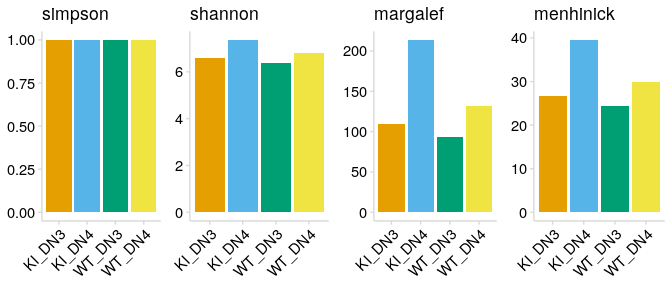
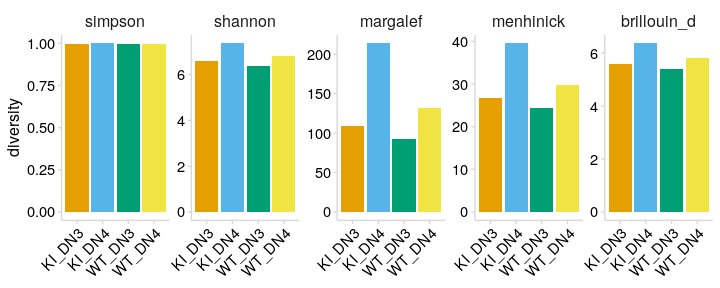
allow calc_diversity to take list of methods

diff --git a/README.md b/README.md
@@ -300,38 +300,28 @@ so_tcr <- calc_diversity(
 <br>
 
 The `plot_diversity` function will create plots summarizing repertoire
-diversity for each sample. Four different diversity metrics are plotted
-below.
+diversity for each sample. A named list of functions to run can also be
+passed to plot multiple metrics. Four different diversity metrics are
+shown in the example below.
 
 ``` r
-bar_theme <- theme(
-  axis.title  = element_blank(),
-  axis.text.x = element_text(angle = 45, hjust = 1)
+# Metrics to plot
+fns <- list(
+  "simpson"     = abdiv::simpson,
+  "shannon"     = abdiv::shannon,
+  "margalef"    = abdiv::margalef,
+  "menhinick"   = abdiv::menhinick,
+  "brillouin_d" = abdiv::brillouin_d
 )
 
-# Metrics to use
-metrics <- list(
-  "simpson"   = abdiv::simpson,
-  "shannon"   = abdiv::shannon,
-  "margalef"  = abdiv::margalef,
-  "menhinick" = abdiv::menhinick
-)
-
-# Plot diversity metrics
-ggs <- metrics %>%
-  imap(~ {
-    plot_diversity(
-      sobj_in       = so_tcr,        # Seurat object
-      clonotype_col = "cdr3",        # meta.data column containing clonotype ids
-      cluster_col   = "orig.ident",  # meta.data column containing cell labels
-      method        = .x,            # abdiv method to use
-      plot_colors   = ito_cols
-    ) +
-      ggtitle(.y) +
-      bar_theme
-  })
-
-plot_grid(plotlist = ggs, nrow = 1)
+plot_diversity(
+  sobj_in       = so_tcr,        # Seurat object
+  clonotype_col = "cdr3",        # meta.data column containing clonotype ids
+  cluster_col   = "orig.ident",  # meta.data column containing cell labels
+  method        = fns,           # abdiv method to use
+  plot_colors   = ito_cols
+) +
+  theme(axis.text.x = element_text(angle = 45, hjust = 1))
 ```
 
 ![](man/figures/README-div_plots-1.png)<!-- -->
